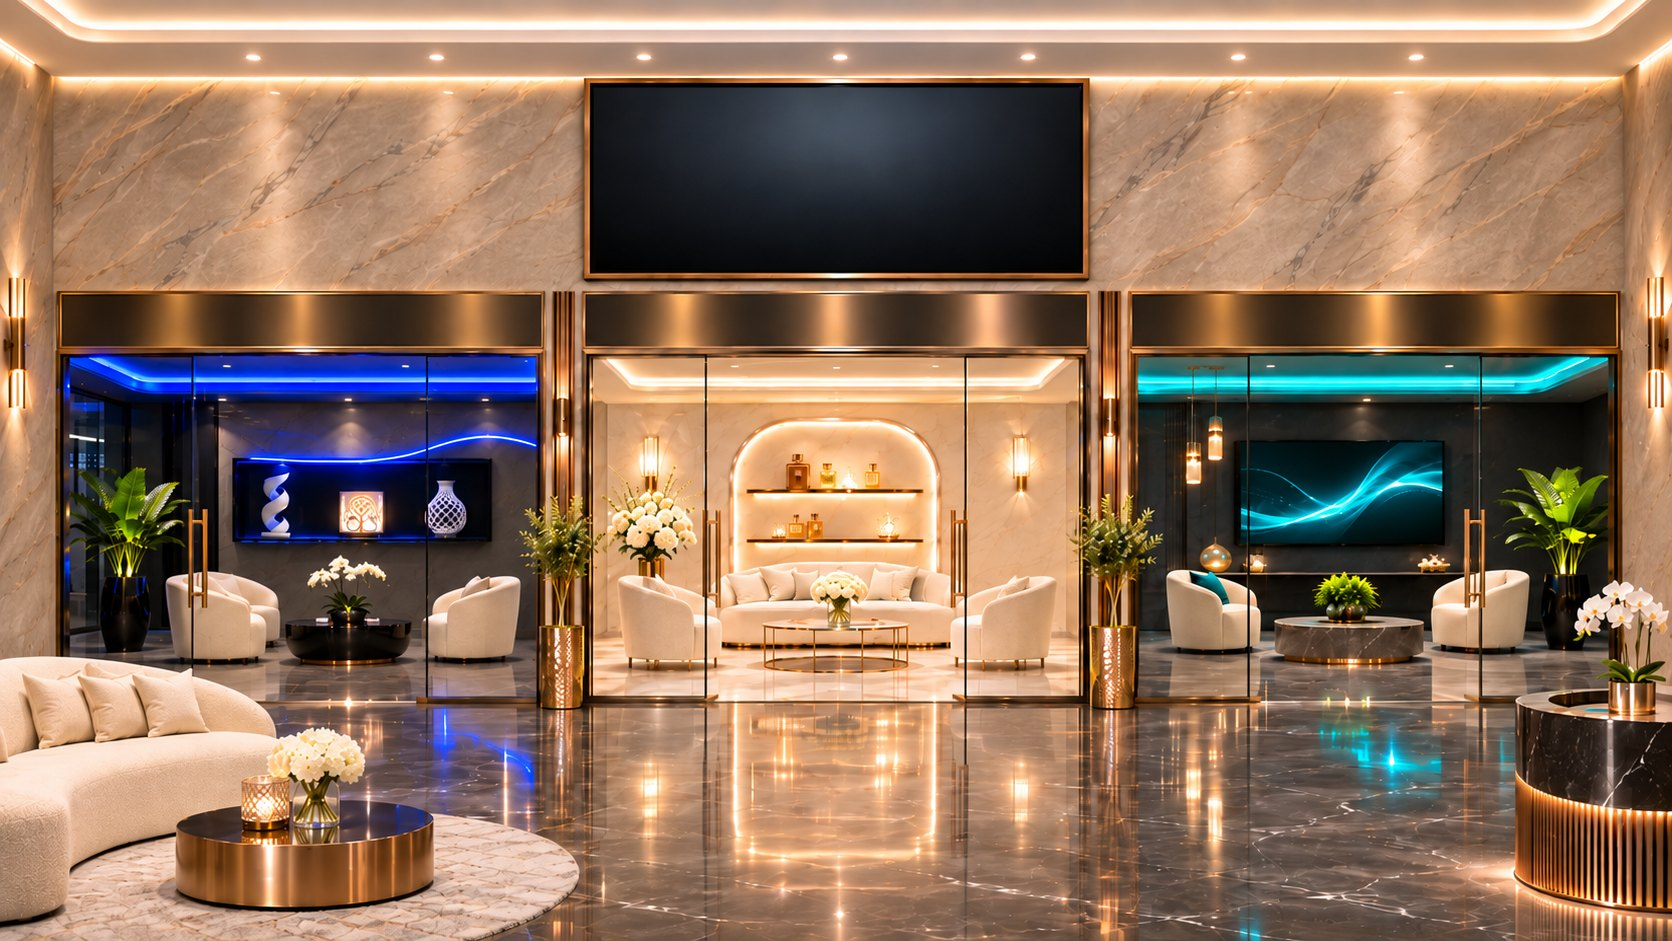
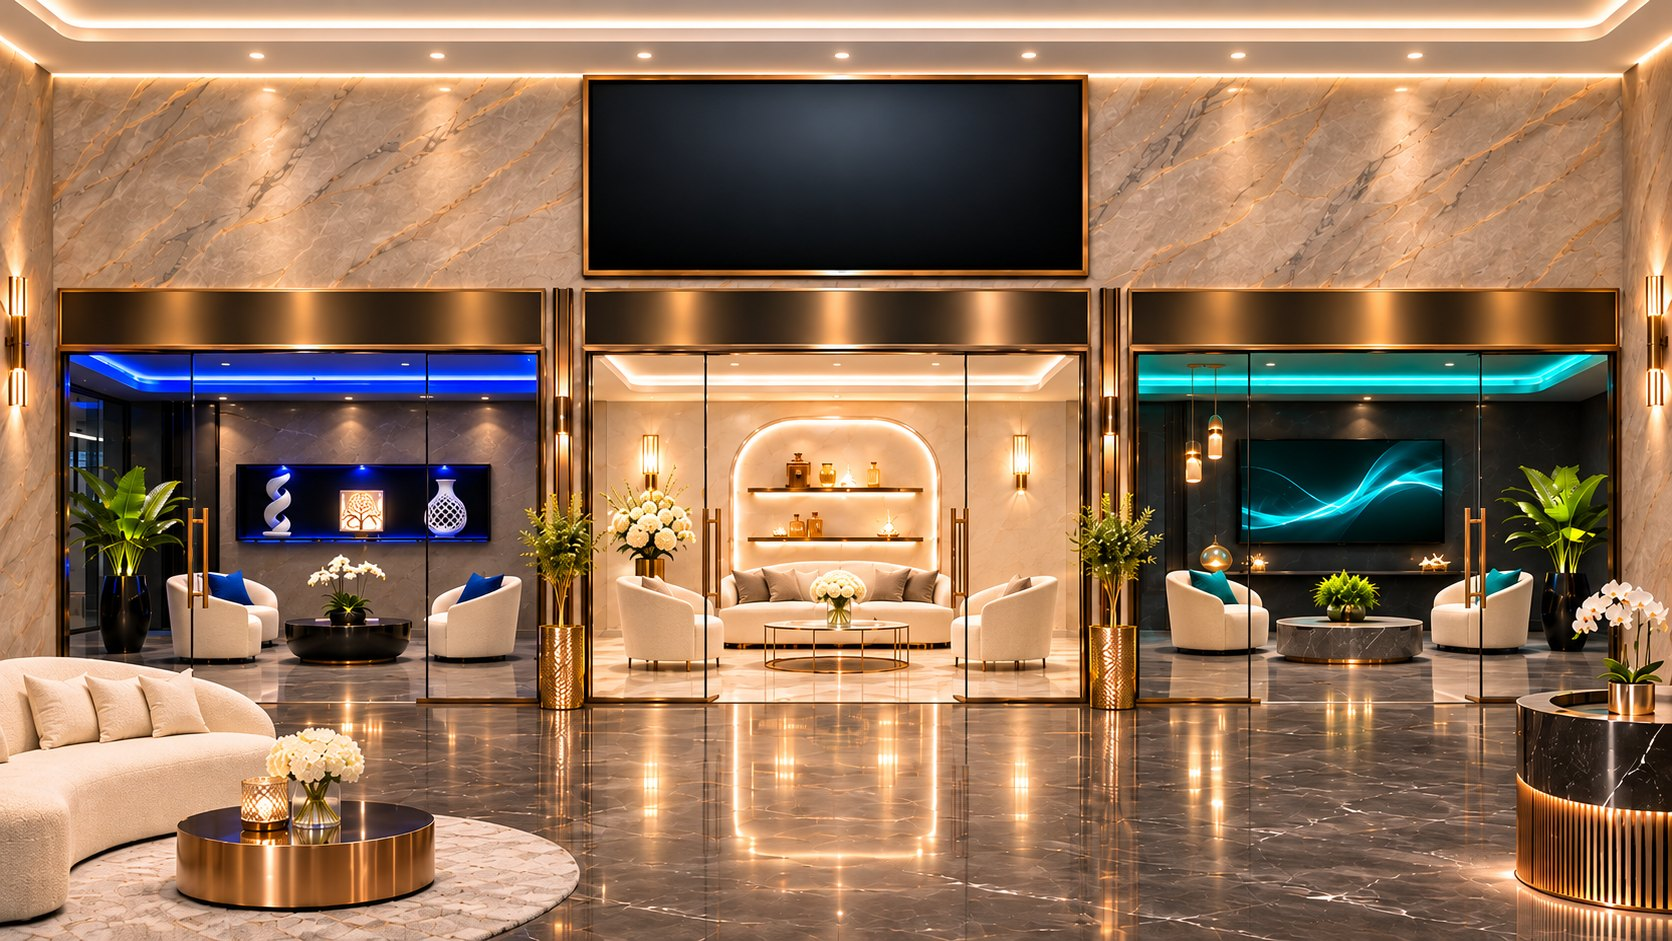
Lobby photo: Allure Fusions light line removed, clean floor without LED streaks, suite pillows blue / taupe / teal; TV position adjusted to match
Previous version: tag before-pillow-floor-edit.

diff --git a/index.html b/index.html
@@ -174,7 +174,7 @@ body{-webkit-font-smoothing:antialiased;-moz-osx-font-smoothing:grayscale}
     function placeMarquee(){const sign=hero.querySelector('.architectural-sign');if(!sign)return;const r=hero.getBoundingClientRect(),cs=getComputedStyle(hero),px=parseFloat(cs.backgroundPositionX)/100||.5,py=parseFloat(cs.backgroundPositionY)/100||.5,k=Math.max(r.width/CANOPY.w,r.height/CANOPY.h),ox=(r.width-CANOPY.w*k)*px,oy=(r.height-CANOPY.h*k)*py;sign.classList.add('on-canopy');const v0=(14-ox)/k,v1=(r.width-14-ox)/k,a0=Math.max(FACE.x0,v0),a1=Math.min(FACE.x1,v1),cropped=a0>FACE.x0||a1<FACE.x1;if(SIGN==='photo'){hero.classList.toggle('sign-photo',!cropped);if(!cropped)return}if(SIGN==='parallel'||SIGN==='photo'){fitToCanopy(sign,ox,oy,k,a0,a1);return}sign.style.fontSize=((SIGN==='parallel'?29:SIGN==='plaque'?22:CANOPY.font)*k)+'px';let w=sign.offsetWidth;const room=r.width-24;if(w>room){sign.style.fontSize=(CANOPY.font*k*room/w)+'px';w=sign.offsetWidth}const h=sign.offsetHeight;sign.style.left=Math.min(Math.max(12,ox+CANOPY.cx*k-w/2),r.width-12-w)+'px';sign.style.top=(oy+CANOPY.cy*k-h/2)+'px';sign.style.transform='none'}
     window.addEventListener('resize',placeMarquee);window.addEventListener('load',placeMarquee);if(document.fonts)document.fonts.ready.then(placeMarquee);
     // Lobby TV: where the LED TV sits in img/crawford-lobby.jpg (photo pixels). Set from the image.
-    const TV={w:1672,h:941,left:595,top:89,right:1077,bottom:267};
+    const TV={w:1672,h:941,left:593,top:86,right:1077,bottom:264};
     const ACC={madam:'#cb9671',fusions:'#6c9dff',ai:'#21b8b0'};
     let tv=null,tvSuite=null;
     function tvFits(){return TV.right>TV.left&&window.innerWidth>900}

diff --git a/src/ccs-preview.html b/src/ccs-preview.html
@@ -158,7 +158,7 @@
     function placeMarquee(){const sign=hero.querySelector('.architectural-sign');if(!sign)return;const r=hero.getBoundingClientRect(),cs=getComputedStyle(hero),px=parseFloat(cs.backgroundPositionX)/100||.5,py=parseFloat(cs.backgroundPositionY)/100||.5,k=Math.max(r.width/CANOPY.w,r.height/CANOPY.h),ox=(r.width-CANOPY.w*k)*px,oy=(r.height-CANOPY.h*k)*py;sign.classList.add('on-canopy');const v0=(14-ox)/k,v1=(r.width-14-ox)/k,a0=Math.max(FACE.x0,v0),a1=Math.min(FACE.x1,v1),cropped=a0>FACE.x0||a1<FACE.x1;if(SIGN==='photo'){hero.classList.toggle('sign-photo',!cropped);if(!cropped)return}if(SIGN==='parallel'||SIGN==='photo'){fitToCanopy(sign,ox,oy,k,a0,a1);return}sign.style.fontSize=((SIGN==='parallel'?29:SIGN==='plaque'?22:CANOPY.font)*k)+'px';let w=sign.offsetWidth;const room=r.width-24;if(w>room){sign.style.fontSize=(CANOPY.font*k*room/w)+'px';w=sign.offsetWidth}const h=sign.offsetHeight;sign.style.left=Math.min(Math.max(12,ox+CANOPY.cx*k-w/2),r.width-12-w)+'px';sign.style.top=(oy+CANOPY.cy*k-h/2)+'px';sign.style.transform='none'}
     window.addEventListener('resize',placeMarquee);window.addEventListener('load',placeMarquee);if(document.fonts)document.fonts.ready.then(placeMarquee);
     // Lobby TV: where the LED TV sits in img/crawford-lobby.jpg (photo pixels). Set from the image.
-    const TV={w:1672,h:941,left:595,top:89,right:1077,bottom:267};
+    const TV={w:1672,h:941,left:593,top:86,right:1077,bottom:264};
     const ACC={madam:'#cb9671',fusions:'#6c9dff',ai:'#21b8b0'};
     let tv=null,tvSuite=null;
     function tvFits(){return TV.right>TV.left&&window.innerWidth>900}
